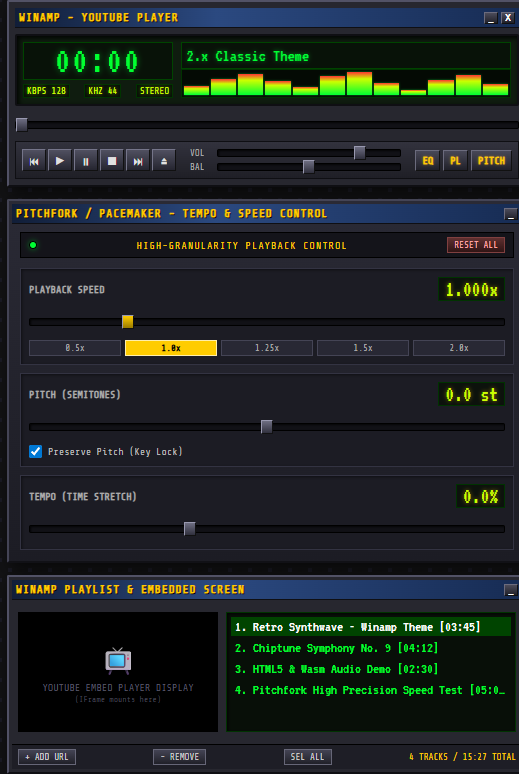
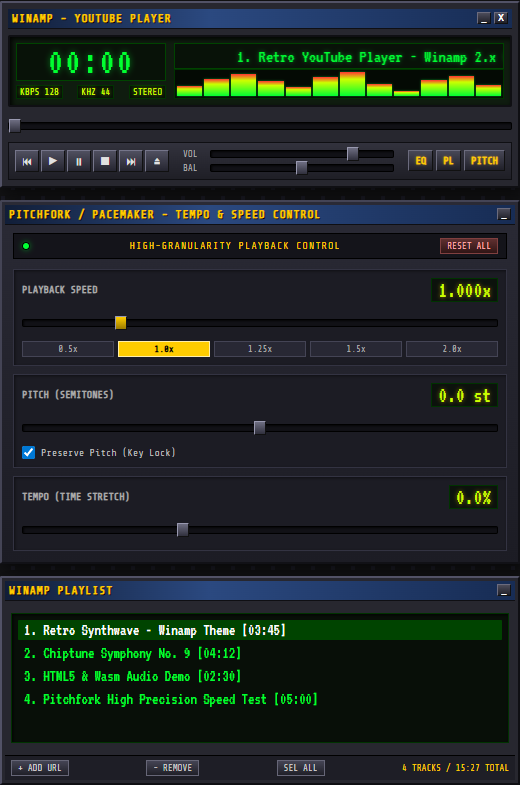
refactor: remove embedded video display and streamline playlist UI for audio-only playback

Changed region(s): [[0.0, 0.0, 1.0, 1.0], [0.5241, 0.9612, 0.6474, 0.9922], [0.2775, 0.9612, 0.4008, 0.9922]]

diff --git a/styles.css b/styles.css
@@ -511,7 +511,7 @@ body {
 }
 
 /* ==========================================================================
-   PLAYLIST & VIDEO WINDOW
+   PLAYLIST WINDOW
    ========================================================================== */
 
 .playlist-window {
@@ -521,61 +521,36 @@ body {
 }
 
 .playlist-body {
-  display: flex;
-  gap: 8px;
   padding: 6px;
 }
 
-.video-container {
-  width: 200px;
-  height: 120px;
-  background: #000000;
-  border: 2px solid #000;
-  box-shadow: inset 1px 1px 4px rgba(0, 0, 0, 0.8);
-  display: flex;
-  align-items: center;
-  justify-content: center;
-}
-
-.video-placeholder {
-  text-align: center;
-  color: #555566;
-  font-family: var(--font-mono);
-  font-size: 10px;
-}
-
-.video-screen-icon {
-  font-size: 28px;
-  margin-bottom: 4px;
-}
-
-.subtext {
-  font-size: 8px;
-  color: #444455;
-}
-
 .playlist-list {
-  flex: 1;
+  width: 100%;
   background: #080f08;
   border: 1px solid #003300;
   box-shadow: inset 1px 1px 3px rgba(0, 0, 0, 0.9);
-  padding: 4px;
+  padding: 6px;
   display: flex;
   flex-direction: column;
-  gap: 2px;
+  gap: 3px;
   font-family: var(--font-digital);
-  font-size: 15px;
-  height: 120px;
+  font-size: 16px;
+  height: 130px;
   overflow-y: auto;
 }
 
 .playlist-item {
   color: var(--lcd-green);
-  padding: 2px 4px;
+  padding: 2px 6px;
   cursor: pointer;
   white-space: nowrap;
   overflow: hidden;
   text-overflow: ellipsis;
+  border-radius: 1px;
+}
+
+.playlist-item:hover {
+  background: #002200;
 }
 
 .playlist-item.active {

diff --git a/index.html b/index.html
@@ -163,25 +163,16 @@
       </div>
     </div>
 
-    <!-- EQUALIZER & PLAYLIST WINDOW -->
+    <!-- PLAYLIST WINDOW -->
     <div class="winamp-window playlist-window">
       <div class="title-bar">
-        <div class="title-bar-text">WINAMP PLAYLIST & EMBEDDED SCREEN</div>
+        <div class="title-bar-text">WINAMP PLAYLIST</div>
         <div class="title-bar-controls">
           <button class="win-btn minimize" aria-label="Minimize">_</button>
         </div>
       </div>
 
       <div class="playlist-body">
-        <!-- Embedded Video Screen Container -->
-        <div class="video-container">
-          <div class="video-placeholder">
-            <div class="video-screen-icon">📺</div>
-            <p>YOUTUBE EMBED PLAYER DISPLAY</p>
-            <span class="subtext">(IFrame mounts here)</span>
-          </div>
-        </div>
-
         <!-- Playlist Tracks List -->
         <div class="playlist-list">
           <div class="playlist-item active">1. Retro Synthwave - Winamp Theme [03:45]</div>

diff --git a/README.md b/README.md
@@ -1,6 +1,6 @@
 # Winamp YouTube Web Player (with Pitchfork High-Granularity Control)
 
-An embedded YouTube web player interface replicating the iconic **Winamp 2.x Classic Skin** paired with the **PaceMaker / Pitchfork** DSP plugin for fine-grained audio tempo, speed, and pitch control.
+A retro YouTube audio web player interface replicating the iconic **Winamp 2.x Classic Skin** paired with the **PaceMaker / Pitchfork** DSP plugin for fine-grained audio tempo, speed, and pitch control.
 
 ---
 
@@ -9,7 +9,7 @@ An embedded YouTube web player interface replicating the iconic **Winamp 2.x Cla
 This project aims to faithfully duplicate the aesthetic and layout of Winamp 2.x and its classic audio DSP plugins.
 
 ### Current UI Prototype
-The prototype recreates the classic Winamp main window (dark metallic panels, bevelled buttons, green/yellow LED matrix display, spectrum visualization) alongside a Pitchfork/PaceMaker-style plugin window with high-precision Speed, Pitch, and Tempo sliders, plus a playlist/video window.
+The prototype recreates the classic Winamp main window (dark metallic panels, bevelled buttons, green/yellow LED matrix display, spectrum visualization) alongside a Pitchfork/PaceMaker-style plugin window with high-precision Speed, Pitch, and Tempo sliders, plus a dedicated playlist window (pure audio playback, no video screen display in this iteration).
 
 ![Winamp YouTube Player UI Prototype](screenshot-ui.png)
 *(Live screenshot of the current HTML5/CSS prototype in this repo)*
@@ -19,14 +19,15 @@ The prototype recreates the classic Winamp main window (dark metallic panels, be
 ## 🚀 Project Overview & Architecture
 
 ### Current Stage: HTML5 / CSS UI Prototype
-* **Standalone UI (`index.html`, `styles.css`):** Pixel-styled HTML5 layout mimicking the classic Winamp main window, equalizers, playlist, and Pitchfork plugin deck.
+* **Standalone UI (`index.html`, `styles.css`):** Pixel-styled HTML5 layout mimicking the classic Winamp main window, audio playlist, and Pitchfork plugin deck.
+* **Audio-First Design:** Focuses on pure audio playlist playback with no embedded video player screen.
 * **Granular Controls:** Speed slider configured for high-precision steps (`0.005x` increments), semitone pitch adjustments, and tempo sliders.
 
 ### Planned Stack & Capabilities
 * **Rust + WebAssembly (Wasm):** Rust application state management, playlist handling, keyboard shortcuts, and player logic.
-* **YouTube IFrame API / Browser Extension Interop:**
-  * Standard YouTube IFrame API integration for basic playback.
-  * Browser extension component (Chromium / Edge / Brave / Firefox) to bypass cross-origin iframe security boundaries and directly manipulate `HTMLVideoElement.playbackRate` with arbitrary float precision (`0.0625x` to `16.0x`).
+* **YouTube Audio Playback / Browser Extension Interop:**
+  * YouTube audio playback integration for seamless background audio listening.
+  * Browser extension component (Chromium / Edge / Brave / Firefox) to bypass cross-origin iframe security boundaries and directly manipulate playback rates with arbitrary float precision (`0.0625x` to `16.0x`).
 
 ---
 
